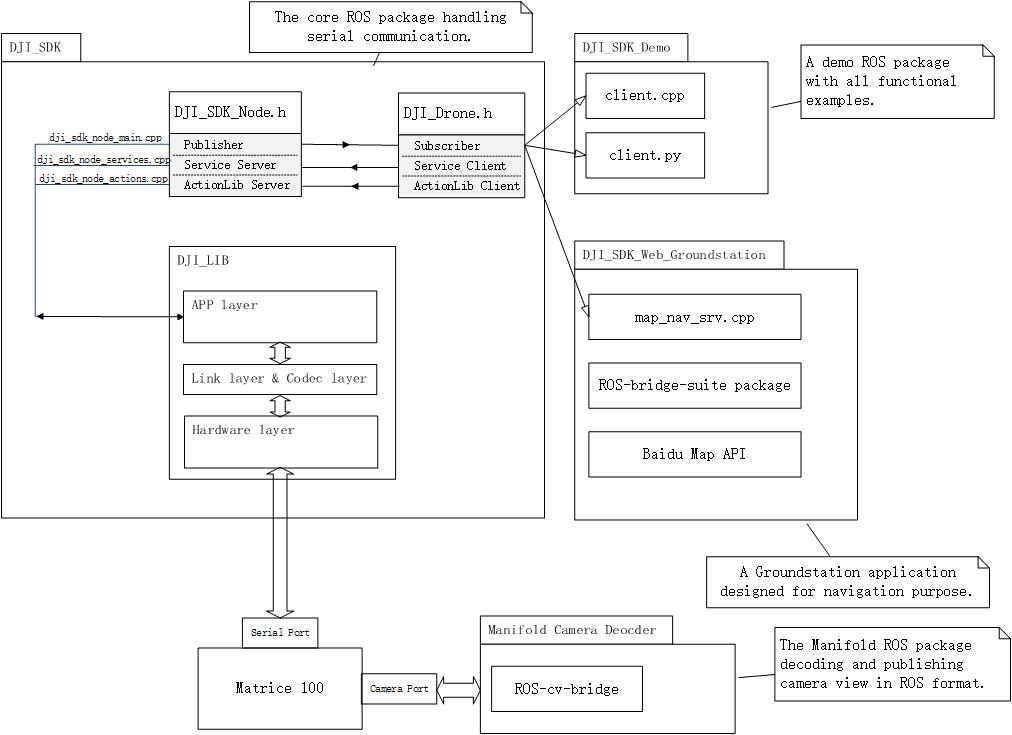
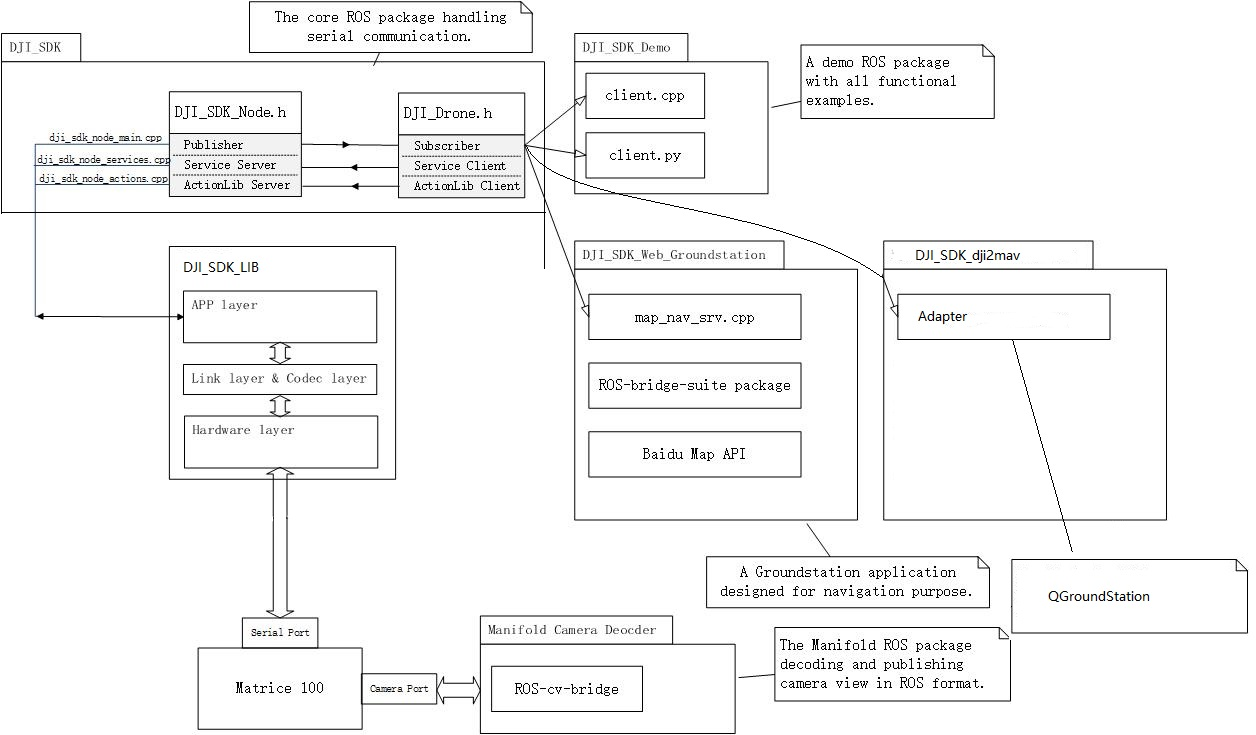
doc update

diff --git a/dji_sdk_doc/whatToKnowI.md b/dji_sdk_doc/whatToKnowI.md
@@ -1,0 +1,29 @@
+#DJI SDK Challenge: Onboard SDK Part I
+
+## Overview
+Onboard SDK is a protocol provided by DJI, which make it possible for developers to get the current state of the drone and send commands to it in order to control drone’s movement.
+
+This document is a brief introduction of the structure and usage of SDK’s ROS package. The package structure and usage will be introduced first, then followed by some tips of SDK challenges. At last, there will be an appendix of all msgs and srcs, together with the detailed parameters of them.
+
+## ROS Package
+The ROS packages in this repository is one kind of implementation of DJI Onboard SDK protocol and many applications based on it.
+
+- dji\_sdk\_lib: The implementation of protocol communication. It is the core part of protocol implementation outside ROS. The code is almost the same as the one in [official github repository](https://github.com/dji-sdk/Onboard-SDK/tree/3.1/lib) but in ROS format.
+- dji\_sdk: This package is a group of packed APIs from dji\_sdk\_lib. All received data from the drone are published into topics and all protocols of sending commands have become ROS services. Other than the logic of processing topics and services, we provided a header file `dji_drone.h` in the include folder, which is a packed class able to access all topics and services. Developers can implement their logic in another package then include this header file to access all data.
+- dji\_sdk\_demo: A demo of how to use `dji_drone.h` in dji\_sdk package.
+- dji\_sdk\_dji2mav: An extended package of dji\_sdk, which converts messages between DJI protocol and MAVLink protocol. It may be useful to developers who wants do work on the QGroundControl.  Please refer to its [readme](https://github.com/dji-sdk/Onboard-SDK-ROS/blob/3.1/dji_sdk_dji2mav/README.md) for more details.
+- dji\_sdk\_web\_groundstation: A grundstation package using ROS Javascript API (ROS bridge suite) and Baidu Map API.
+- dji\_sdk\_read\_cam: A specified ROS package for Manifold. It converts the video stream from X3 gimbal into the ROS sensor\_msgs/Image and publish the video out.
+
+All these packages are designed as a reference purpose, which means they are not suitable for an application usage, they are just various demos as your reference.
+For example, the dji\_sdk package implements all protocols as ROS element, however, some of them may be not necessary in a specified task. Developers should remove unnecessary topics or services (like everything related to groundstation) if they want to reduce the CPU usage. It is very important because the Manifold has a limited performance.
+
+## Important Notes
+As for the SDK challenge details, there are several points developers need to pay attention.
+
+1. The drone is not controllable by SDK during the taking off procedure until its height reaches the 1.2 meter, and the landing procedure will give you the same condition. Therefore, it is better to arm/disarm the drone by yourself, then with the help of attitude control making it take off or land with SDK control ability.
+2. There are three control modes in horizontal direction when doing attitude control (regardless the frame). The angle of pitch/roll, the velocity in x/y direction and the position offset in x/y direction. The position control needs a stable GPS signal (health flag \> 3), the velocity control needs a stable velocity feedback (from Guidance or GPS), the pitch/roll angle control is the only way to achieve attitude control when working in weak GPS signal condition with no Guidance installed. 
+3. The video transmission in ROS network may suffer latency problem. It is a better idea to read and process the video stream in the same node then publish the final result out.
+
+## Appendix
+We provided an [appendix](http://github.com/dji-sdk/Onboard-SDK-ROS/blob/3.1/dji_sdk_doc/Appendix.md) for developers to check the details of all published topics and services, together with the definition of corresponding msgs and srvs with parameter description.

diff --git a/dji_sdk_doc/Appendix.md b/dji_sdk_doc/Appendix.md
@@ -21,6 +21,10 @@
 	info: compass data
 	type: dji_sdk/Compass
 
+/dji_sdk/data_received_from_remote_device
+	info: read transparent transmission data from mobile SDK
+	type: dji_sdk/TransparentTransmissionData
+
 /dji_sdk/flight_control_info
 	info: drone control device info
 	type: dji_sdk/FlightControlInfo
@@ -47,7 +51,7 @@
 
 /dji_sdk/power_status
 	info: current battery info
-	type: dji_sdk/PowerStatus
+	type: dji_sdk/PowerStatus #an uint8
 
 /dji_sdk/rc_channels
 	info: current channel values of RC controller
@@ -207,6 +211,7 @@ dji_sdk/RCChannels
 	#             |                            |                  \ -4545
 	#             V                            V
 	#          -10000                       -10000
+	# The range in RCChannles is different from the range of Virtual RC command.
 
 	std_msgs/Header header
 	  uint32 seq
@@ -229,6 +234,9 @@ dji_sdk/TimeStamp
 	uint32 time_ns  #unit is nano second, overflow every 4 sec
 	uint8 sync_flag
 
+dji_sdk/TransparentTransmissionData
+	uint8[] data
+
 dji_sdk/Velocity
 	std_msgs/Header header
 	  uint32 seq
@@ -240,7 +248,6 @@ dji_sdk/Velocity
 	float32 vz
 	uint8 health_flag (0:not trustable or 1:trustable)
 
-
 dji_sdk/Waypoint
 	#latitude is in degree
 	float64 latitude
@@ -251,7 +258,6 @@ dji_sdk/Waypoint
 	int16 heading
 	#stay time is in second
 	uint16 staytime
-
 
 dji_sdk/WaypointList
 	dji_sdk/Waypoint[] waypoint_list
@@ -268,6 +274,10 @@ dji_sdk/WaypointList
 /dji_sdk/camera_action_control
 	info: camera action control service
 	type: dji_sdk/CameraActionControl
+
+/dji_sdk/drone_arm_control
+	info: arm/disarm drone service
+	type: dji_sdk/DroneArmControl
 
 /dji_sdk/drone_task_control
 	info: drone task control service
@@ -291,6 +301,10 @@ dji_sdk/WaypointList
 	info: local position control service
 	type: dji_sdk/LocalPositionControl
 
+/dji_sdk/send_data_to_remote_device
+	info: send transparent transmission data service
+	type: dji_sdk/SendDataToRemoteDevice
+
 /dji_sdk/sdk_permission_control
 	info: obtain or release control abilitiy service
 	type: dji_sdk/SDKPermissionControl
@@ -298,6 +312,18 @@ dji_sdk/WaypointList
 /dji_sdk/velocity_control
 	info: velocity control service
 	type: dji_sdk/VelocityControl
+
+/dji_sdk/version_check
+	info: check sdk version service
+	type: dji_sdk/VersionCheck
+
+/dji_sdk/virtual_rc_enable_control
+	info: enable/disable Virtual RC service
+	type: dji_sdk/VirtualRCEnableControl
+
+/dji_sdk/virtual_rc_data_control
+	info: send Virtual RC data service
+	type: dji_sdk/VirtualRCDataControl
 
 ```
 
@@ -317,6 +343,13 @@ dji_sdk/CameraActionControl
 	#startRecord: 1
 	#stopRecord:  2
 	uint8 camera_action
+	---
+	bool result
+
+dji_sdk/DroneArmControl
+	#arm: 1
+	#disarm: 0
+	uint8 arm
 	---
 	bool result
 
@@ -370,6 +403,11 @@ dji_sdk/SDKPermissionControl
 	---
 	bool result
 
+dji_sdk/SendDataToRemoteDevice
+	uint8[] data #100 byte at most
+	---
+	bool result
+
 dji_sdk/VelocityControl
 	# body frame: 0, with stable mode 
 	#world frame: 1, with stable mode
@@ -380,6 +418,35 @@ dji_sdk/VelocityControl
 	float32 yawAngle
 	---
 	bool result
+
+dji_sdk/VersionCheck
+	---
+	bool result
+
+dji_sdk/VirtualRCEnable
+	uint8 enable
+	uint8 if_back_to_read
+	#switch back to real RC when 1
+	#behave like RC signal lost when 0
+	---
+	bool result
+
+dji_sdk/VirtualRCDataControl
+	#IMPORTANT: the channel range in VRC is different
+	#			from the channel range in broadcast data.
+	#
+	# VRC channel range is [1024-660, 1024+660]
+	# For Matrice 100: 
+	#		channle_data[0]: Roll
+	#		channle_data[1]: pitch 
+	#		channle_data[2]: throttle 
+	#		channle_data[3]: yaw
+	#		channle_data[4]: gear (1684:up, 1324:down)
+	#		channle_data[6]: mode (1552:P, 1024:A, 496:F)
+	uint32[16] channel_data
+	---
+	bool result
+
 ```
 
 ####Action Server List

diff --git a/README.md b/README.md
@@ -53,6 +53,9 @@ It helps users handle the following commands and actions.
 ![image](dji_sdk_doc/structure.jpg)
 [click to see fullsize image](https://raw.githubusercontent.com/dji-sdk/Onboard-SDK-ROS/2.3/dji_sdk_doc/structure.jpg)
 
+##Read First
+[DJI SDK Challenge: Onboard SDK Part I](dji_sdk_doc/whatToKnowI.md)
+
 ##System Environment
 The below environment has been tested.
 * Operating System: Ubuntu 14.04, Manifold
@@ -109,6 +112,9 @@ The below environment has been tested.
 
 ![image](dji_sdk_doc/structure.jpg)
 [点击查看大图](https://raw.githubusercontent.com/dji-sdk/Onboard-SDK-ROS/2.3/dji_sdk_doc/structure.jpg)
+
+##Read First
+[DJI SDK Challenge: Onboard SDK Part I](dji_sdk_doc/whatToKnowI.md)
 
 #系统环境
 此 ROS 包在如下系统中进行测试；
